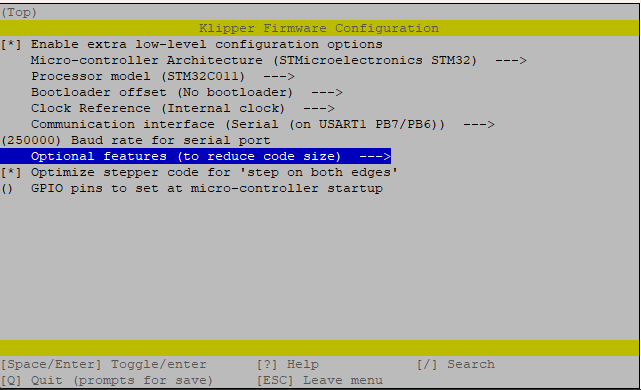
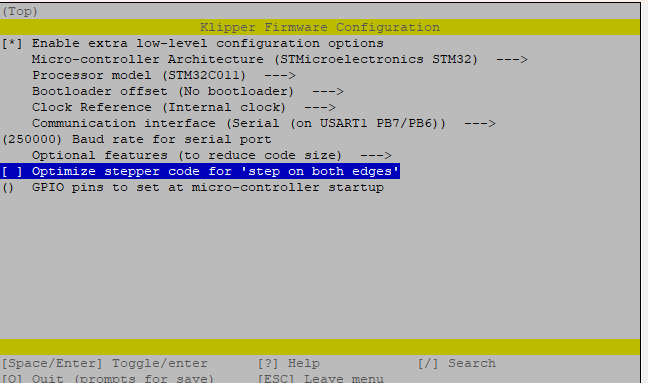
Readme update

diff --git a/README.md b/README.md
@@ -39,7 +39,6 @@ Important enabled options:
 - Clock reference: `Internal clock`
 - Communication interface: `Serial (on USART1 PB7/PB6)`
 - Baud rate: `250000`
-- Software SPI bit banging
 - ADS1220 ADC support
 - Homing/probing events using analog sensors
 
@@ -87,8 +86,8 @@ to rewrite the higher-level probing logic.
 ### Software
 
 - Multi-MCU synchronization hits communication timeouts during Z homing.
-  The current suspicion is that SPI bit banging on the STM32C011/ADS1220 path is
-  adding enough latency to expose this.
+  ~~The current suspicion is that SPI bit banging on the STM32C011/ADS1220 path is
+  adding enough latency to expose this.~~
 - Thermal drift is the biggest known issue with probing. Real print conditions can move the
   raw count baseline enough to affect repeated probing.
 - More testing is needed around `tare_time`, `trigger_force`,
@@ -99,7 +98,7 @@ to rewrite the higher-level probing logic.
 - Some failures only show up during real print-start conditions, after heat
   soak, bed mesh, and repeated taps.
 
-Thermal drift during bed mesh caused trigger before movement and print failure. Top is force bottom is raw counts.
+Thermal drift during bed mesh caused trigger before movement and print failure. Top chart is force bottom is raw counts.
 
 ![Thermal drift](assets/thermal_drift.png)
 
@@ -120,11 +119,10 @@ STM32C011 pin assignments that were used.
 sensor_type: bdpressure_ads1220
 tare_time: 0.3
 
-spi_software_sclk_pin: stx32c011:PA5
-spi_software_mosi_pin: stx32c011:PA2
-spi_software_miso_pin: stx32c011:PA6
-cs_pin: stx32c011:PA4
-data_ready_pin: stx32c011:PA3
+spi_bus: spi1_PA6_PA2_PA5
+cs_pin: stm32c011:PA4
+data_ready_pin: stm32c011:PA3
+
 
 bd_range: 213500
 input_mux: AIN0_AIN1
